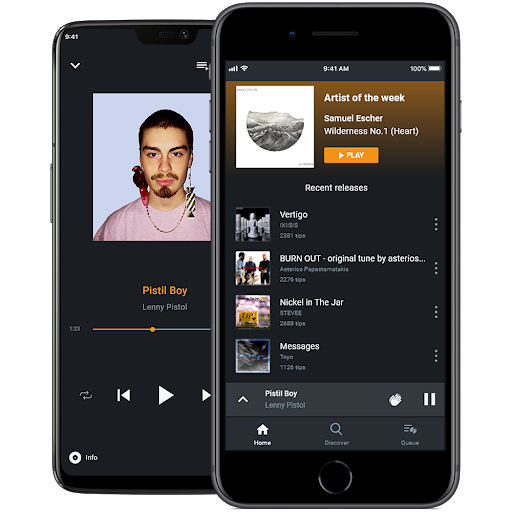
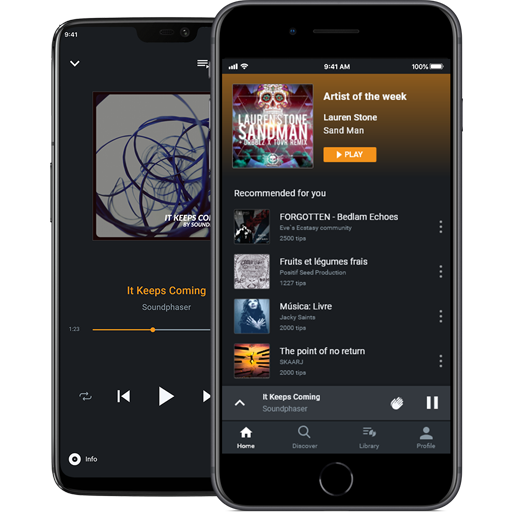
Updated app version and screenshots (#21)
* Updated app version and screenshots

* Corrected image file name

diff --git a/src/Home/index.js b/src/Home/index.js
@@ -107,7 +107,7 @@ export const Home = () => (
 							customSize={18}
 							customMargin="0px 0px 16px 0px"
 						>
-							<label>Musicoin Mobile App V1.0 (Now Available)</label>
+							<label>Musicoin Mobile App V2.1 (Now Available)</label>
 						</PrimaryHeading>
 						<Link
 							to="/"
